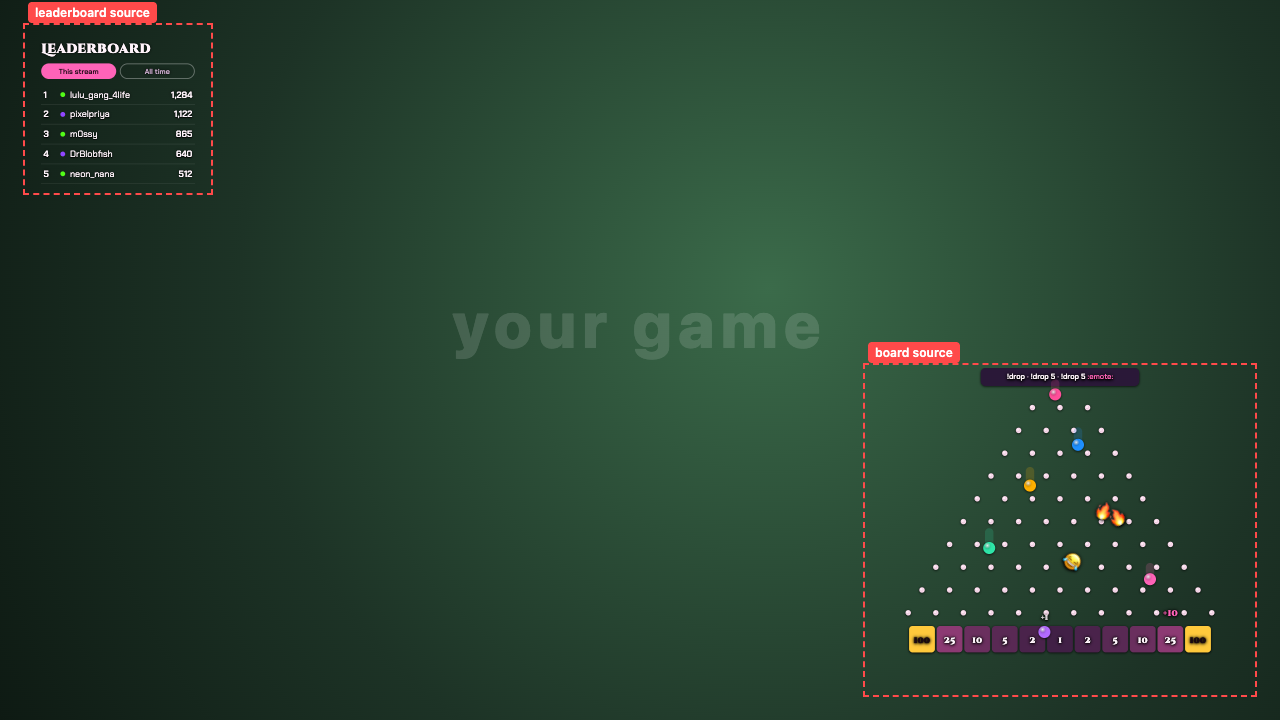
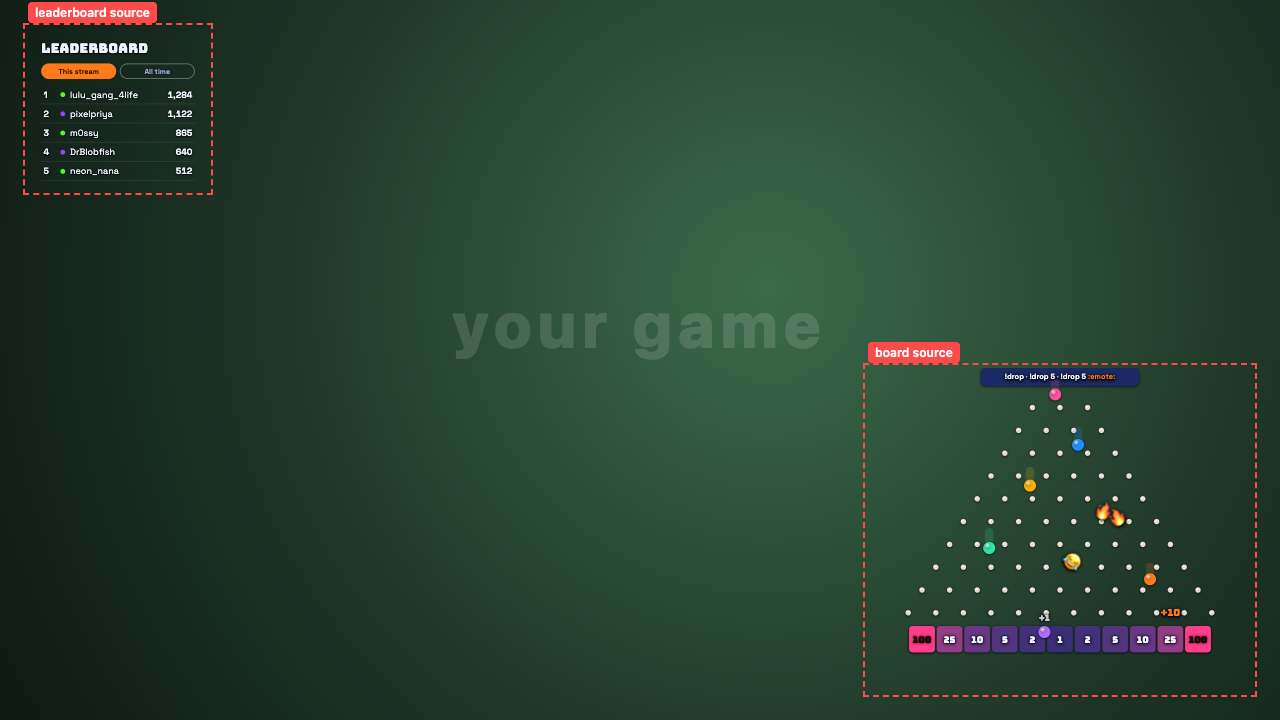
Chaplinko plan: its own brand (late-night arcade: midnight, cobalt, tangerine ball, jackpot pink; Bungee + Space Grotesk; the O is the ball), the chaplinko theme, the website; brand mockups; widget mockups in the new theme

diff --git a/docs/plans/chaplinko/brand.html b/docs/plans/chaplinko/brand.html
@@ -1,0 +1,156 @@
+<!doctype html>
+<!-- Chaplinko's brand, still mockup (docs/plans/chaplinko/plan.md, "Brand"). ?v=logo|palette|site|compare shows one at
+     its real size (for screenshots); no ?v shows them all. Google Fonts only here; the build self-hosts them. -->
+<html lang="en">
+<head>
+<meta charset="utf-8">
+<title>Chaplinko brand mockup</title>
+<link rel="stylesheet" href="https://fonts.googleapis.com/css2?family=Bungee&family=Space+Grotesk:wght@400;600;700&display=block">
+<style>
+  :root { --night: #0a1233; --deep: #121d4d; --slot: #1b2a66; --cobalt: #2f5bff; --tangerine: #ff7a1a; --pink: #ff3d8b;
+          --ice: #eef3ff; --muted: #9fb0e0; --display: Bungee, system-ui, sans-serif; --font: "Space Grotesk", system-ui, sans-serif; }
+  body { margin: 0; background: #07070a; color: var(--ice); font: 16px var(--font); }
+  .page { display: flex; flex-direction: column; gap: 28px; padding: 28px; }
+  .solo .page { padding: 0; }
+  .cap { font: 600 13px system-ui; color: #999; margin: 0 0 8px; }
+  .solo .cap { display: none; }
+  .board { background: var(--night); position: relative; overflow: hidden; }
+  /* the peg-dot texture the brand uses behind sections */
+  .pegs { background-image: radial-gradient(circle, #eef3ff22 1.6px, transparent 2px); background-size: 28px 24px; }
+
+  /* logo sheet */
+  .logo { width: 1200px; height: 630px; display: grid; grid-template-columns: 1fr 1fr; }
+  .logo > div { display: flex; flex-direction: column; align-items: center; justify-content: center; gap: 26px; }
+  .logo .dark { background: var(--night); }
+  .logo .light { background: var(--ice); color: var(--night); }
+  .lockup { display: flex; align-items: center; gap: 16px; }
+  .word { font: 400 56px var(--display); letter-spacing: .01em; line-height: 1; display: inline-flex; align-items: baseline; }
+  .word .o { display: inline-block; width: .7em; height: .7em; border-radius: 50%; margin-left: .04em; position: relative;
+             background: radial-gradient(circle at 35% 30%, #fff9 0 12%, transparent 36%), var(--tangerine); box-shadow: 0 .07em 0 -.025em var(--pink); }
+  .sizes { display: flex; align-items: flex-end; gap: 22px; }
+  .tag { font: 600 15px var(--font); letter-spacing: .18em; text-transform: uppercase; color: var(--muted); }
+  .light .tag { color: #4a5a8c; }
+  .note { font: 13px var(--font); color: var(--muted); max-width: 440px; text-align: center; line-height: 1.5; }
+  .light .note { color: #4a5a8c; }
+
+  /* palette + type */
+  .palette { width: 1200px; height: 520px; padding: 40px; box-sizing: border-box; display: grid; grid-template-columns: 1.25fr 1fr; gap: 40px; }
+  .sw { display: grid; grid-template-columns: repeat(4, 1fr); gap: 12px; align-content: start; }
+  .sw div { height: 118px; border-radius: 16px; padding: 12px; box-sizing: border-box; display: flex; flex-direction: column; justify-content: flex-end; font: 600 13px var(--font); box-shadow: inset 0 0 0 1px #ffffff1f; }
+  .sw small { font-weight: 400; opacity: .8; }
+  .type h3 { font: 400 44px/1 var(--display); margin: 0 0 6px; }
+  .type h4 { font: 400 22px var(--display); margin: 18px 0 6px; color: var(--tangerine); }
+  .type p { margin: 0 0 8px; color: var(--muted); line-height: 1.5; }
+  .type code { white-space: nowrap; font: 700 15px var(--font); background: var(--slot); padding: 2px 8px; border-radius: 8px; color: var(--ice); }
+
+  /* website hero */
+  .site { width: 1280px; height: 900px; }
+  .site .glow { position: absolute; width: 900px; height: 900px; right: -200px; top: -150px; border-radius: 50%;
+                background: radial-gradient(circle, #2f5bff55, transparent 60%); }
+  header { position: relative; display: flex; align-items: center; gap: 14px; padding: 20px 40px; }
+  header .word { font-size: 26px; }
+  nav { margin-left: 34px; display: flex; gap: 6px; }
+  nav a { font: 600 14px var(--font); color: var(--muted); padding: 7px 14px; border-radius: 999px; text-decoration: none; }
+  nav a.on { color: var(--ice); background: #ffffff14; box-shadow: inset 0 0 0 1px #ffffff22; }
+  .by { margin-left: auto; font: 13px var(--font); color: var(--muted); }
+  .by b { color: var(--ice); }
+  .hero { position: relative; display: grid; grid-template-columns: 1fr 640px; gap: 10px; padding: 24px 40px 0; }
+  .eyebrow { display: inline-flex; gap: 8px; align-items: center; font: 700 12px var(--font); letter-spacing: .16em; text-transform: uppercase;
+             color: var(--ice); background: #ffffff10; box-shadow: inset 0 0 0 1px #ffffff22; padding: 7px 12px; border-radius: 999px; margin-top: 46px; }
+  .dot { width: 8px; height: 8px; border-radius: 50%; display: inline-block; }
+  h1 { font: 400 86px/.95 var(--display); margin: 22px 0 18px; letter-spacing: -.005em; }
+  h1 em { font-style: normal; color: var(--tangerine); text-shadow: 0 0 30px #ff7a1a66; }
+  .lede { font-size: 19px; line-height: 1.55; color: var(--muted); max-width: 500px; margin: 0; }
+  .lede code { font: 700 17px var(--font); color: var(--ice); background: var(--slot); padding: 1px 7px; border-radius: 7px; }
+  .cta { display: flex; gap: 12px; margin-top: 30px; }
+  .btn { font: 400 18px var(--display); padding: 15px 24px; border-radius: 999px; letter-spacing: .02em; }
+  .btn.go { background: linear-gradient(180deg, #ff9442, var(--tangerine)); color: #1a0a00; box-shadow: 0 10px 30px #ff7a1a55, inset 0 -3px 0 #0003; }
+  .btn.ghost { color: var(--ice); box-shadow: inset 0 0 0 2px #ffffff33; }
+  .free { margin-top: 18px; font-size: 14px; color: var(--muted); }
+  .stage { position: relative; height: 540px; }
+  .stage iframe { border: 0; width: 640px; height: 540px; background: transparent; }
+  .chat { position: absolute; left: -40px; top: 150px; width: 220px; display: flex; flex-direction: column; gap: 8px; }
+  .msg { background: #0e1740; box-shadow: inset 0 0 0 1px #ffffff1f, 0 8px 20px #0006; border-radius: 14px; padding: 8px 12px; font-size: 14px; }
+  .msg b { margin-right: 6px; }
+  .steps { position: relative; display: grid; grid-template-columns: repeat(3, 1fr); gap: 18px; padding: 40px 40px 0; }
+  .step { background: linear-gradient(180deg, #16235c, #0f1a47); border-radius: 22px; padding: 22px; box-shadow: inset 0 0 0 1px #2f5bff55, 0 0 40px #2f5bff1a; }
+  .step .n { width: 38px; height: 38px; border-radius: 50%; display: grid; place-items: center; font: 400 18px var(--display); color: #1a0a00;
+             background: radial-gradient(circle at 35% 30%, #fff9 0 12%, transparent 36%), var(--tangerine); margin-bottom: 12px; }
+  .step h3 { font: 400 20px var(--display); margin: 0 0 6px; }
+  .step p { margin: 0; color: var(--muted); font-size: 15px; line-height: 1.5; }
+
+  /* side by side with Chatagram */
+  .compare { width: 1200px; height: 315px; display: grid; grid-template-columns: 1fr 1fr; }
+  .compare > div { position: relative; overflow: hidden; }
+  .compare img { width: 100%; height: 100%; object-fit: cover; display: block; }
+  .compare .lab { position: absolute; left: 12px; top: 12px; font: 600 12px system-ui; background: #000a; color: #fff; padding: 4px 8px; border-radius: 6px; }
+  .compare .ck { display: flex; flex-direction: column; justify-content: center; align-items: center; gap: 18px; height: 100%; }
+</style>
+</head>
+<body>
+<div class="page" id="page"></div>
+<script>
+// the mark: a cobalt tile, a triangle of pegs, the tangerine ball dropping in, the slots with the jackpot lit
+const mark = (size, id = 'm' + size) => `<svg width="${size}" height="${size}" viewBox="0 0 64 64" role="img" aria-label="Chaplinko">
+  <defs><linearGradient id="${id}t" x1="0" y1="0" x2="0" y2="1"><stop offset="0" stop-color="#3d68ff"/><stop offset="1" stop-color="#1c34c9"/></linearGradient>
+  <radialGradient id="${id}b" cx=".35" cy=".3" r=".8"><stop offset="0" stop-color="#ffd2ad"/><stop offset=".35" stop-color="#ff7a1a"/><stop offset="1" stop-color="#e2600a"/></radialGradient></defs>
+  <rect width="64" height="64" rx="15" fill="url(#${id}t)"/>
+  <rect x="1" y="1" width="62" height="62" rx="14" fill="none" stroke="#fff" stroke-opacity=".18" stroke-width="2"/>
+  ${[[32, 22], [24, 32], [40, 32], [16, 42], [32, 42], [48, 42]].map(([x, y]) => `<circle cx="${x}" cy="${y}" r="3" fill="#eef3ff"/>`).join('')}
+  <path d="M38 5 L40 13" stroke="#ffb27a" stroke-opacity=".6" stroke-width="7" stroke-linecap="round"/>
+  <circle cx="40.5" cy="14.5" r="6.5" fill="url(#${id}b)"/>
+  <rect x="9" y="50" width="10" height="7" rx="2.5" fill="#0a1233" opacity=".55"/><rect x="21" y="50" width="10" height="7" rx="2.5" fill="#0a1233" opacity=".55"/>
+  <rect x="33" y="50" width="10" height="7" rx="2.5" fill="#ff3d8b"/><rect x="45" y="50" width="10" height="7" rx="2.5" fill="#0a1233" opacity=".55"/>
+</svg>`;
+const word = (size, color = 'var(--ice)') => `<span class="word" style="font-size:${size}px;color:${color}">CHAPLINK<span class="o"></span></span>`;
+const lockup = (m, w, color) => `<div class="lockup">${mark(m)}${word(w, color)}</div>`;
+
+const V = {
+  logo: ['Logo: the mark (favicon, app tile) and the wordmark, on dark and on light', () => `<div class="logo">
+    <div class="dark pegs">${lockup(84, 64)}<div class="sizes">${mark(128, 'a')}${mark(64, 'b')}${mark(32, 'c')}${mark(16, 'd')}</div>
+      <div class="tag">Let chat drop</div></div>
+    <div class="light">${lockup(84, 64, '#0a1233')}<div class="sizes">${word(34, '#0a1233')}${word(22, '#0a1233')}</div>
+      <div class="note">The O is the ball. The wordmark is always capitals in Bungee; the mark always has the pink jackpot slot. No bowler hats, canes or moustaches, and nothing from The Price Is Right.</div></div></div>`],
+  palette: ['Colours and type', () => `<div class="palette board">
+    <div><div class="sw">
+      <div style="background:#0a1233">Night<small>#0a1233 · backgrounds</small></div>
+      <div style="background:#121d4d">Deep<small>#121d4d · panels</small></div>
+      <div style="background:#2f5bff">Cobalt<small>#2f5bff · the tile, rims, glow</small></div>
+      <div style="background:#eef3ff;color:#0a1233">Ice<small>#eef3ff · text, pegs</small></div>
+      <div style="background:#ff7a1a;color:#1a0a00">Tangerine<small>#ff7a1a · the ball, buttons</small></div>
+      <div style="background:#ff3d8b">Jackpot pink<small>#ff3d8b · the top slot, big wins</small></div>
+      <div style="background:#1b2a66">Slot<small>#1b2a66 · slots, code chips</small></div>
+      <div style="background:#9fb0e0;color:#0a1233">Mist<small>#9fb0e0 · quieter text</small></div>
+    </div></div>
+    <div class="type"><h3>BUNGEE</h3><p>Display: the wordmark, headings, slot numbers, buttons. Arcade-sign capitals.</p>
+      <h4>SPACE GROTESK</h4><p>Text: everything else, 400 and 600. Commands look like <code>!drop 5 🔥</code></p>
+      <p style="margin-top:18px">Both are free (SIL Open Font License) and would be self-hosted beside the others, latin only.</p></div></div>`],
+  site: ['The website, /chaplinko/: the top of the page (1280 wide)', () => `<div class="site board">
+    <div class="glow"></div>
+    <header>${mark(40, 'h')}${word(26)}<nav><a class="on">Play</a><a>How it works</a><a>Looks</a><a>Set up</a><a>FAQ</a></nav>
+      <span class="by">made by <b>TrongatesLegacy</b></span></header>
+    <div class="hero">
+      <div><span class="eyebrow"><span class="dot" style="background:#9146ff"></span><span class="dot" style="background:#53fc18"></span>Free for Twitch and Kick</span>
+        <h1>LET CHAT<br><em>DROP.</em></h1>
+        <p class="lede">Chat types <code>!drop</code>. Balls bounce down the pegs, in each chatter's own colour, and the slots keep score. A leaderboard for this stream and all time, straight over your game.</p>
+        <div class="cta"><span class="btn go">SET IT UP</span><span class="btn ghost">SEE IT PLAY</span></div>
+        <div class="free">No sign-up, no download: one link in OBS.</div></div>
+      <div class="stage"><iframe src="mockup.html?v=hero"></iframe>
+        <div class="chat"><div class="msg"><b style="color:#ff4f9a">pixelpriya</b>!drop 5</div><div class="msg"><b style="color:#1e90ff">m0ssy</b>!drop 3 🔥</div><div class="msg"><b style="color:#ffb000">kevxd</b>!drop</div></div></div>
+    </div>
+    <div class="steps pegs">
+      <div class="step"><div class="n">1</div><h3>TYPE YOUR CHANNEL</h3><p>Twitch, Kick or both. Pick a look, or keep it see-through.</p></div>
+      <div class="step"><div class="n">2</div><h3>ADD IT TO OBS</h3><p>Copy the link into a browser source. The leaderboard can be its own source, or sit beside the board.</p></div>
+      <div class="step"><div class="n">3</div><h3>CHAT DROPS</h3><p>Every ball scores. Land the jackpot and the whole stream sees your name.</p></div>
+    </div></div>`],
+  compare: ['Beside Chatagram: two different brands from the same maker', () => `<div class="compare">
+    <div><img src="../../../public/chatagram/assets/og.jpg" alt=""><span class="lab">Chatagram</span></div>
+    <div class="board pegs"><div class="ck">${lockup(72, 54)}<div class="tag">Let chat drop</div></div><span class="lab">Chaplinko</span></div></div>`],
+};
+const q = new URLSearchParams(location.search).get('v');
+if (q) document.body.classList.add('solo');
+document.getElementById('page').innerHTML = Object.entries(V).filter(([k]) => !q || k === q)
+  .map(([, [cap, f]]) => `<div><p class="cap">${cap}</p>${f()}</div>`).join('');
+</script>
+</body>
+</html>

diff --git a/docs/plans/chaplinko/mockup.html b/docs/plans/chaplinko/mockup.html
@@ -1,12 +1,14 @@
 <!doctype html>
 <!-- A still mockup of Chaplinko (docs/plans/chaplinko/plan.md), drawn with the real widget themes. Not the game:
-     nothing moves. ?v=classic|pachinko|tower|jackpot|clear|panel|strip|lbclear|scene|combined|accents shows one frame at its real size (for screenshots);
+     nothing moves. ?v=classic|pachinko|tower|jackpot|clear|panel|strip|lbclear|scene|combined|hero|accents shows one frame at its real size (for screenshots);
      no ?v shows them all. -->
 <html lang="en">
 <head>
 <meta charset="utf-8">
 <title>Chaplinko mockup</title>
 <link rel="stylesheet" href="../../../public/widgets/lib/themes.css">
+<!-- the planned chaplinko theme (plan.md, "Brand"); Google Fonts only in this mockup, the build self-hosts them -->
+<link rel="stylesheet" href="https://fonts.googleapis.com/css2?family=Bungee&family=Space+Grotesk:wght@400;600;700&display=block">
 <style>
   body { margin: 0; background: #0b0b0f; color: #ddd; font: 14px system-ui; }
   .page { display: flex; flex-wrap: wrap; gap: 28px; padding: 28px; align-items: flex-start; }
@@ -67,6 +69,7 @@
   .w.clear { --bgo: 0; box-shadow: none; }
   .w.clear svg circle, .w.clear svg rect, .w.clear svg text { filter: drop-shadow(0 1px 2px rgb(0 0 0 / .8)); }
   .scene > .w.clear { position: absolute; inset: 0; }
+  .w.clear svg text[style*="accent-ink"] { filter: none; }
   .w.clear .lb, .w.clear .tabs span:not(.on), .w.clear .best, .w.clear .strip .chip, .w.clear .how code { background: none; }
   .w.clear .tabs span:not(.on) { box-shadow: inset 0 0 0 1.5px rgb(255 255 255 / .35); }
   .w.clear .tabs .on { text-shadow: none; }
@@ -74,7 +77,12 @@
   .w.clear .row { border-color: rgb(255 255 255 / .12); }
   .w.clear, .w.clear .lb h2, .w.clear .strip .st { text-shadow: 0 1px 2px rgb(0 0 0 / .9), 0 0 6px rgb(0 0 0 / .5); }
   .w.clear .muted, .w.clear .strip .st, .w.clear .row b { color: var(--text); }
-  .mini { display: grid; grid-template-columns: repeat(4, 1fr); gap: 14px; }
+  .mini { display: grid; grid-template-columns: repeat(3, 1fr); gap: 14px; }
+  [data-theme=chaplinko] {
+    --bg: rgb(10 18 51 / var(--bgo, 1)); --panel: #121d4d; --slot: #1b2a66; --text: #eef3ff; --muted: #9fb0e0; --accent: #ff7a1a; --accent-ink: #1a0a00;
+    --gold: #ff3d8b; --edge: inset 0 0 0 1px #2f5bff55, 0 0 40px #2f5bff22; --radius: 18px;
+    --font: "Space Grotesk", system-ui, sans-serif; --display: Bungee, system-ui, sans-serif; --display-weight: 400; }
+  .bare, .bare body { background: transparent; }
 </style>
 </head>
 <body>
@@ -87,7 +95,7 @@ let seed = 7; const rnd = () => ((seed = (seed * 16807) % 2147483647) / 21474836
 function slotFill(v, max) {
   if (v === max) return 'var(--gold)';
   const t = Math.round(Math.pow(v / max, .45) * 85);
-  return `color-mix(in srgb, var(--accent) ${t}%, var(--slot))`;
+  return `color-mix(in oklch, var(--accent) ${t}%, var(--slot))`;
 }
 function slotInk(v, max) { return v === max || v / max > .3 ? 'var(--accent-ink)' : 'var(--text)'; }
 
@@ -186,27 +194,29 @@ const frame = (theme, w, h, inner, accent, clear) => `<div class="w${clear ? ' c
 const confetti = () => { let s = ''; for (let i = 0; i < 70; i++) { const c = ['var(--gold)', 'var(--accent)', 'var(--text)', '#ff5a5f', '#2ee6a8'][i % 5]; s += `<rect x="${rnd() * 960}" y="${rnd() * 540}" width="${6 + rnd() * 6}" height="${3 + rnd() * 4}" transform="rotate(${rnd() * 360})" style="fill:${c}" opacity=".9"/>`; } return svg(960, 540, [s]); };
 
 const V = {
-  classic: ['Board source: Classic Plinko · 640×540 · chatagram theme', () => frame('chatagram', 640, 540, classic() + credit)],
+  classic: ['Board source: Plinko · 640×540 · chaplinko theme (the default), with a background', () => frame('chaplinko', 640, 540, classic() + credit)],
   pachinko: ['Board source: Pachinko · 640×540 · neon theme', () => frame('neon', 640, 540, pachinko() + credit)],
   tower: ['Board source: Pin tower · tall 360×640 · candy theme', () => frame('candy', 360, 640, tower())],
-  jackpot: ['Board source: the top prize card · deep theme', () => frame('deep', 640, 540, classic({ balls: false }) + `<div class="dim"></div>` + confetti() +
+  jackpot: ['Board source: the top prize card · chaplinko theme', () => frame('chaplinko', 640, 540, classic({ balls: false }) + `<div class="dim"></div>` + confetti() +
     `<div class="card"><div class="k">JACKPOT!</div><div class="who"><span class="dot tw"></span>pixelpriya</div><div class="pts">+100</div><div class="sub">1 in 512 · the first today</div></div>`)],
-  panel: ['Leaderboard source: panel · 300×270 · chatagram theme', () => frame('chatagram', 300, 270, panel())],
+  panel: ['Leaderboard source: panel · 300×270 · chaplinko theme, with a background', () => frame('chaplinko', 300, 270, panel())],
   strip: ['Leaderboard source: strip · 720×72 · neon theme', () => frame('neon', 720, 72, strip())],
-  clear: ['Board source, transparent: no background, no frame, pegs and slots shadowed to read over any game · neon theme', () => `<div class="scene" style="width:640px;height:540px">${frame('neon', 640, 540, classic(), '', true)}</div>`],
-  lbclear: ['Leaderboard source, transparent: panel and strip straight over the game · chatagram and neon themes', () => `<div class="scene" style="width:960px;height:540px">
-    <div style="position:absolute;left:0;top:0">${frame('chatagram', 300, 270, panel(), '', true)}</div>
+  clear: ['Board source, transparent: no background, no frame, pegs and slots shadowed to read over any game (the default) · chaplinko theme', () => `<div class="scene" style="width:640px;height:540px">${frame('chaplinko', 640, 540, classic(), '', true)}</div>`],
+  lbclear: ['Leaderboard source, transparent: panel and strip straight over the game · chaplinko and neon themes', () => `<div class="scene" style="width:960px;height:540px">
+    <div style="position:absolute;left:0;top:0">${frame('chaplinko', 300, 270, panel(), '', true)}</div>
     <div style="position:absolute;left:0;bottom:0">${frame('neon', 720, 72, strip(), '', true)}</div></div>`],
   scene: ['Separate: two sources over the game, transparent (the default) (1280×720)', () => `<div class="scene">
-    <div class="src-at" style="left:28px;top:28px;width:180px;height:162px"><div style="transform:scale(.6);transform-origin:0 0">${frame('royal', 300, 270, panel(), '', true)}</div><span class="tag">leaderboard source</span></div>
-    <div class="src-at" style="right:28px;bottom:28px;width:384px;height:324px"><div style="transform:scale(.6);transform-origin:0 0">${frame('royal', 640, 540, classic(), '', true)}</div><span class="tag">board source</span></div></div>`],
-  combined: ['Combined: one source, the board with the leaderboard beside it · 960×540 · transparent (the default) · chatagram theme', () => `<div class="scene" style="width:960px;height:540px">${frame('chatagram', 960, 540,
+    <div class="src-at" style="left:28px;top:28px;width:180px;height:162px"><div style="transform:scale(.6);transform-origin:0 0">${frame('chaplinko', 300, 270, panel(), '', true)}</div><span class="tag">leaderboard source</span></div>
+    <div class="src-at" style="right:28px;bottom:28px;width:384px;height:324px"><div style="transform:scale(.6);transform-origin:0 0">${frame('chaplinko', 640, 540, classic(), '', true)}</div><span class="tag">board source</span></div></div>`],
+  combined: ['Combined: one source, the board with the leaderboard beside it · 960×540 · transparent (the default) · chaplinko theme', () => `<div class="scene" style="width:960px;height:540px">${frame('chaplinko', 960, 540,
     `<div style="position:absolute;left:0;top:0">${classic()}</div><div style="position:absolute;right:0;top:0;width:300px;height:270px">${panel()}</div>`, '', true)}</div>`],
-  accents: ['The same board, any theme and accent (640×540 each, shown at half size)', () => `<div class="mini">${[['neutral', ''], ['light', ''], ['cozy', ''], ['chatagram', '#2ee6a8'], ['neon', '#ff4155'], ['royal', '#ffd98a'], ['deep', '#45d6c8'], ['candy', '#ff7bd5']]
+  hero: ['The board alone, transparent, for the website mockup', () => frame('chaplinko', 640, 540, classic(), '', true)],
+  accents: ['The same board with a background: chaplinko (the default), chatagram and the other themes, some with other accents (640×540 each, shown at half size)', () => `<div class="mini">${[['chaplinko', ''], ['chatagram', ''], ['neutral', ''], ['light', ''], ['cozy', ''], ['neon', '#ff4155'], ['royal', '#ffd98a'], ['deep', '#45d6c8'], ['candy', '#ff7bd5']]
     .map(([t, a]) => `<div style="width:320px;height:270px;overflow:hidden"><div style="transform:scale(.5);transform-origin:0 0">${frame(t, 640, 540, classic({ w: 640 }), a)}</div></div>`).join('')}</div>`],
 };
 const q = new URLSearchParams(location.search).get('v');
 if (q) document.body.classList.add('solo');
+if (q === 'hero') document.documentElement.classList.add('bare');
 document.getElementById('page').innerHTML = Object.entries(V).filter(([k]) => !q || k === q)
   .map(([, [cap, f]]) => `<div><p class="cap">${cap}</p>${f()}</div>`).join('');
 </script>

diff --git a/docs/plans/chaplinko/plan.md b/docs/plans/chaplinko/plan.md
@@ -4,7 +4,11 @@ A second free widget beside Chatagram (docs/widgets.md): chat types `!drop` and 
 scoring slots. Status: **planning** (2026-09-29). The first version is **Plinko only**; Pachinko and Pin tower are for
 later (see "Later").
 
-Mockups (`mockup.html`, drawn with the real `themes.css`; `?v=<name>` shows one at its real size). Board source:
+Brand mockups (`brand.html`): [logo](brand-logo.png), [colours and type](brand-palette.png), [the website](brand-site.png),
+[beside Chatagram](brand-compare.png).
+
+Widget mockups (`mockup.html`, drawn with the real `themes.css` plus the planned `chaplinko` theme; `?v=<name>` shows
+one at its real size). Board source:
 [board](classic.png), [big win](jackpot.png), [transparent](clear.png), [themes and accents](accents.png). Leaderboard
 source: [panel](panel.png), [strip](strip.png), [transparent](lbclear.png). On a stream: [separate](scene.png),
 [combined](combined.png).
@@ -27,6 +31,7 @@ source: [panel](panel.png), [strip](strip.png), [transparent](lbclear.png). On a
 - **Balls are the chatter's chat colour** by default (2026-09-30).
 - **The commands are shown on the board**, not on the leaderboard.
 - The name is **Chaplinko** (chat + Plinko). The command is `!drop`.
+- **Its own brand, logo and website, clearly different from Chatagram** (2026-09-30).
 
 ### About the name
 
@@ -36,6 +41,85 @@ nickname list). "Chatinko" was already taken by a Twitch/Kick chat game, so it w
 - It contains **Plinko**, a trademark of The Price Is Right. That's a small risk for a free widget, but if it ever grew
   large, a rename could be asked for. The page never uses The Price Is Right's look or says it's connected to the show.
 - `!drop` is also used by Coin Pusher Live (a paid Steam game). Streamers who run both can rename our command.
+
+## Brand
+
+Chaplinko is its own brand, as Chatagram is, and the two are meant to look like **siblings from the same maker, not the
+same product**. Chatagram is warm and cartoony: purple ink, coral and sun yellow, the rounded Lilita One, a lowercase
+wordmark and a speech-bubble tile. Chaplinko is a **late-night arcade**: midnight blue, cobalt glow, a tangerine ball,
+hard-edged arcade-sign capitals (mockup: beside Chatagram).
+
+| | Chatagram | Chaplinko |
+|---|---|---|
+| Feel | a cosy word game, cartoon | an arcade cabinet at night, glow |
+| Ground | purple ink `#16122b` | midnight blue `#0a1233` |
+| Hero colour | coral `#ff5a5f` + sun `#ffc93c` | tangerine `#ff7a1a` (the ball) |
+| Top prize | gold | jackpot pink `#ff3d8b` |
+| Display type | Lilita One, lowercase | Bungee, capitals |
+| Text type | Chakra Petch (the site's) | Space Grotesk |
+| Mark | a speech bubble holding a letter tile | a cobalt tile: pegs, a falling ball, the slots |
+| Surfaces | chunky offset shadows | thin cobalt rims and soft glow |
+
+- **Name and wordmark**: `CHAPLINKO` in Bungee capitals, with the **O drawn as the ball** (tangerine, with a shine and a
+  thin pink edge underneath, the jackpot slot). One colour, no split like Chatagram's **chat**agram. On dark it's ice,
+  on light it's midnight (mockup: logo).
+- **The mark** (`chaplinko/assets/icon.svg`, favicon and app tile): a cobalt rounded tile, a 1-2-3 triangle of ice pegs,
+  the tangerine ball falling in with a short streak, and four slots with the third lit jackpot pink. It holds up at 32
+  px; at 16 px (the favicon) a simpler version keeps only the ball, three pegs and the pink slot.
+- **Colours**: night `#0a1233` (backgrounds), deep `#121d4d` (panels), slot `#1b2a66`, cobalt `#2f5bff` (the tile,
+  rims, glow), ice `#eef3ff` (text, pegs), mist `#9fb0e0` (quieter text), tangerine `#ff7a1a` (the ball, buttons),
+  jackpot pink `#ff3d8b` (the top slot, big wins). No Kick green or Twitch purple in the brand, so the platform dots
+  always read as platforms.
+- **Type**: **Bungee** for the wordmark, headings, slot numbers and buttons; **Space Grotesk** 400/600 for everything
+  else. Both are SIL Open Font License, self-hosted beside the others in `public/assets/fonts/` (latin only, about 30 KB
+  and 25 KB). Fonts are files, not a dependency.
+- **Tagline**: **"Let chat drop."** In the site's voice (docs/content-and-voice.md): chill and playful.
+- **Signature details**: the peg-dot texture behind sections; numbers in balls (the steps on the page); a tangerine
+  button with a glow instead of Chatagram's offset shadow.
+- **Credit**, as Chatagram: "made by **TrongatesLegacy**" in the page header, and `Made by TrongatesLegacy.com` on the
+  widget, on by default, can be turned off.
+- **Keep away from**: Charlie Chaplin's look (bowler hat, cane, moustache, silent-film type: the Chaplin estate
+  protects them), and The Price Is Right's look (its Plinko board, logo, colours or "$" slots). The name is the only
+  nod to either.
+
+### The chaplinko theme
+
+A 9th theme in `widgets/lib/themes.css`, **`chaplinko`**, in the brand's colours and type: it's Chaplinko's default
+(the mockups use it) as `chatagram` is Chatagram's. Every widget gets every theme, so Chatagram gains it too, and
+Chaplinko keeps all the others (mockup: themes and accents). Its `--gold` is jackpot pink.
+
+A small change for every theme: the slots' heat (from the plain slot colour to the accent) mixes in `oklch`, not
+`srgb`, so blue-to-orange goes through purple and pink instead of mud brown.
+
+### Artwork
+
+`artwork/chaplinko/` like `artwork/chatagram/`: the link-preview image (1200 × 630: the lockup, the tagline and a real
+board, rendered by `render.mjs` into `public/chaplinko/assets/og.jpg`) and the theme pictures for the page
+(`render-previews.mjs`, the real board in every theme, into `public/chaplinko/assets/themes/`). The mark is hand-drawn
+SVG, as Chatagram's is.
+
+## The website
+
+`/chaplinko/`, indexed, with its own title, description, canonical, share image and JSON-LD (as Chatagram). The same
+**parts** as Chatagram's page, because they work, in a **different look** (mockup: the website):
+
+- **Header**: the mark and wordmark, a pill menu (Play, How it works, Looks, Set up, FAQ) that shows where you are, and
+  "made by TrongatesLegacy" linking to the homepage.
+- **Hero**: "LET CHAT **DROP.**" (the last word tangerine, glowing); one line on what it does; **Set it up** (tangerine)
+  and **See it play** (outline); "No sign-up, no download: one link in OBS." Beside it, **the real board playing
+  transparent** over the page's glow, with a pretend chat dropping balls (`demo.js`, as Chatagram). A picture first,
+  the live board fading in over it once drawn, as Chatagram does.
+- **How it works**: three cards, numbered with balls: type your channel, add it to OBS, chat drops.
+- **Looks**: the board in every theme, transparent and with a background, as pictures; click one to use it.
+- **Set up**: channels (checked as typed), layout (separate / combined), look, the board (rows, slot values with the
+  odds beside them), the leaderboard (show, switch every, how many), Advanced. The live preview stays in view with
+  **Copy OBS link** under it: two buttons for separate (board, leaderboard), one for combined.
+- **FAQ**: is this gambling? (no: points only, nobody stakes anything); how do I add the leaderboard?; separate or
+  combined?; which emotes work?; can I rename `!drop`?; what counts as This stream?
+- **Footer**: credits and the other widgets.
+- Checks as for every page: Lighthouse at the site's baseline (accessibility and best practices 100), desktop and
+  phone screenshots, reduced motion (the hero board shows its picture, nothing falls).
+- On `/widgets/`: a Chaplinko card in its own colours beside Chatagram's, and in the sitemap.
 
 ## What it reuses from Chatagram
 
@@ -203,14 +287,6 @@ credit.
 Saved: `chaplinko:scores:v1:<twitch>|<kick>` (the shared scores record). Balls in flight aren't saved: after a refresh,
 the queue and balls in the air are gone, and they hadn't scored yet.
 
-## The page
-
-`/chaplinko/`, built the same way as Chatagram's: a hero with a pretend chat dropping balls, the themes, set-up with a
-live preview (both sources, or the combined one) and the odds table, **Copy OBS link buttons** (board and leaderboard
-for separate, one for combined), and an FAQ ("is
-this gambling?": no; "how do I add the leaderboard?"). It goes on `/widgets/` and in the sitemap, with its own
-link-preview image.
-
 ## Build order (each step tested and committed on its own)
 
 1. **Prove two sources can talk** in the owner's OBS (a two-page test: shared storage and `BroadcastChannel`). If they
@@ -225,9 +301,11 @@ link-preview image.
 6. **Leaderboard**: `leaderboard.js` draws the list (panel and strip, show and switch every); `leaderboard.html` is the
    separate source reading the board's scores live, with a browser test running both pages at once; the combined layout
    uses the same code inside the board.
-7. **Set-up page**, the widgets list entry, the preview pictures, the link-preview image.
+7. **Brand and website**: the `chaplinko` theme and the two fonts, the mark and favicon, the page (see "The
+   website"), the widgets list entry, the theme pictures, the link-preview image.
 8. **`/obs/chaplinko`** for Trongates Legacy's scenes.
-9. Docs: a "Chaplinko" section in docs/widgets.md, plus testing.md.
+9. Docs: a "Chaplinko" section in docs/widgets.md (with the brand, as Chatagram's has), plus testing.md, and a row in
+   CLAUDE.md's table for `artwork/chaplinko/`.
 
 ## Later (not in the first version)
 
